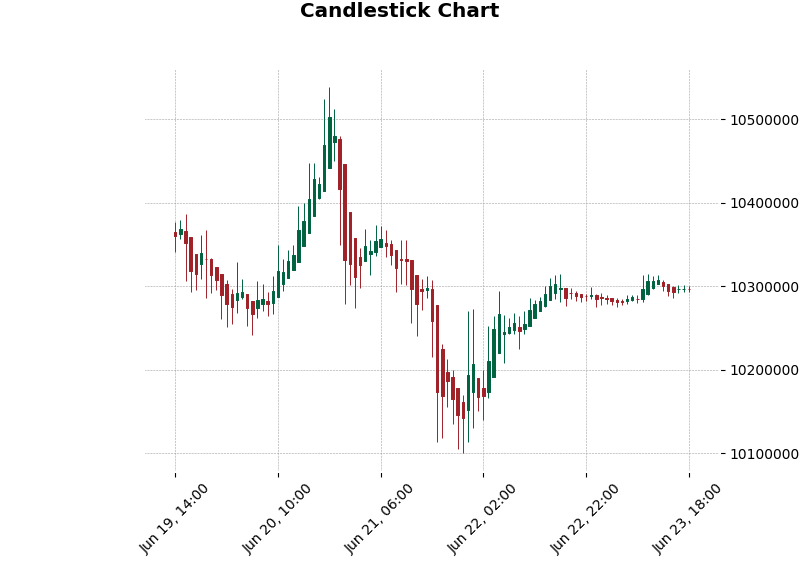
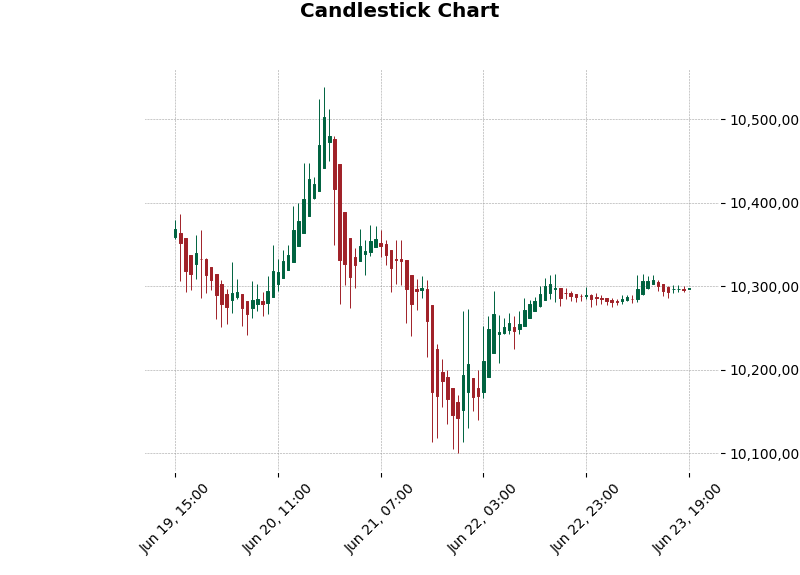
chart layouts

diff --git a/main.py b/main.py
@@ -236,11 +236,12 @@ def mpf_plot():
         title="Candlestick Chart",
         ylabel="Price",
         returnfig=True,  # Return the figure and axes objects for further customization
+        tight_layout=False,
     )
 
     # Set the y-axis formatter to avoid scientific notation
     # Assuming the first axis is the one you want to modify
-    axes[0].yaxis.set_major_formatter(ticker.FormatStrFormatter("%.2f"))
+    axes[0].yaxis.set_major_formatter(ticker.StrMethodFormatter("{x:,.0f}"))
 
     # Save the figure to a file
     fig.savefig(plot_file_name)
